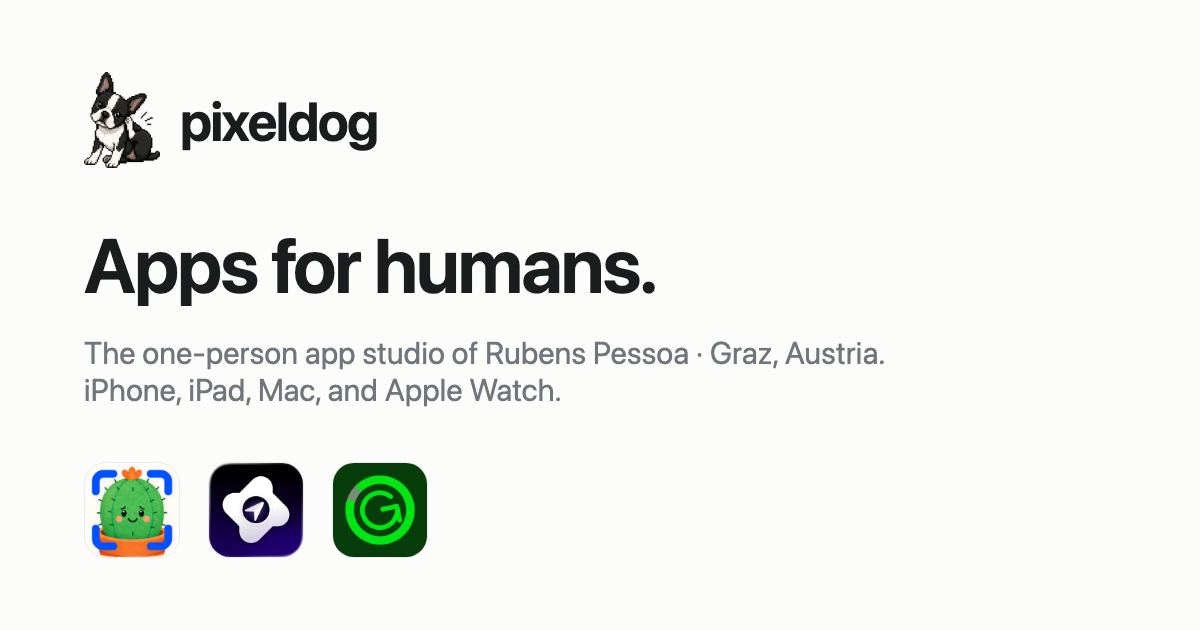
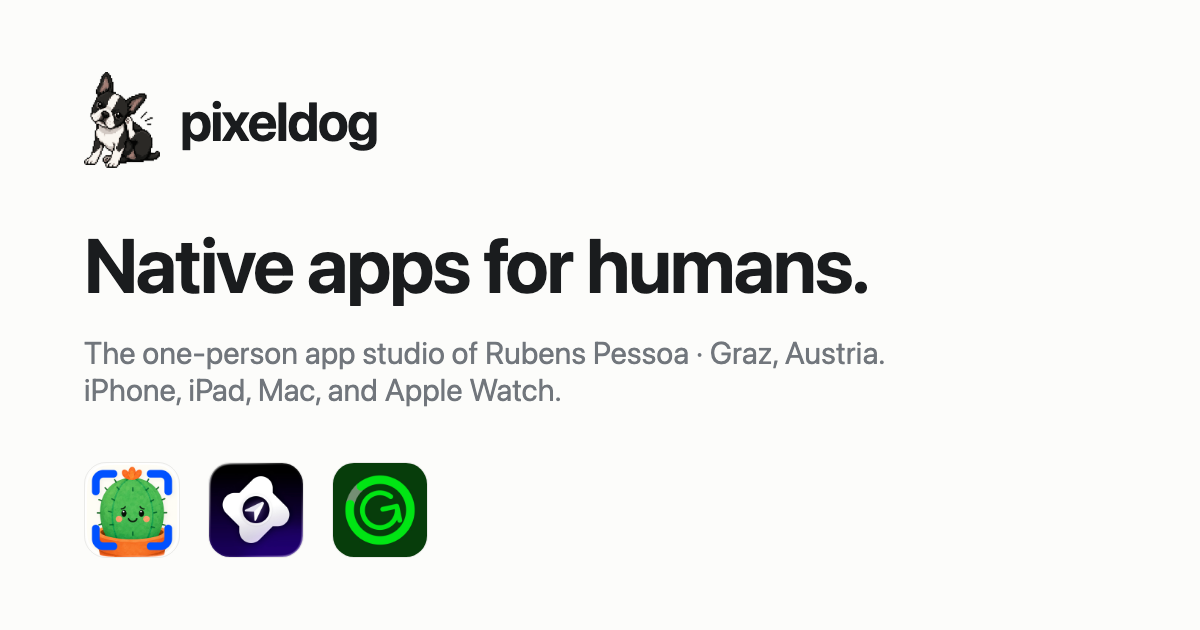
Move the dog to the footer, wordmark the header
The header becomes text only: "The pixeldog company", with the article
and the noun receding so the name still carries the lockup at a glance.
That frees the dog to be the footer's mark at 4.5rem, where it reads as
a drawing rather than a smudge.

Hero becomes "Native apps for humans." The lede drops its own "native"
so the word lands once.

Changed region(s): [[0.0617, 0.3619, 0.74, 0.4825]]

diff --git a/src/i18n/ui.ts b/src/i18n/ui.ts
@@ -45,9 +45,9 @@ export const ui = {
       description:
         'Pixeldog is the app studio of Rubens Pessoa. Native apps for iPhone, iPad, and Mac: Save My Cactus, Hustlrr, and Giorni.',
       ogDescription: 'Native apps for Apple devices from Pixeldog, the one-person studio of Rubens Pessoa.',
-      heroTitle: 'Apps for humans.',
+      heroTitle: 'Native apps for humans.',
       heroLede:
-        'Pixeldog is the one-person app studio of Rubens Pessoa in Graz, Austria. Native apps for iPhone, iPad, Mac, and Apple Watch, and the person who built them also answers the support email.',
+        'Pixeldog is the one-person app studio of Rubens Pessoa in Graz, Austria. Apps for iPhone, iPad, Mac, and Apple Watch, and the person who built them also answers the support email.',
       appsLabel: 'Apps by Pixeldog',
       comingSoon: 'Coming soon',
       learnMore: 'Learn more',
@@ -114,9 +114,9 @@ export const ui = {
       description:
         'A Pixeldog é o estúdio de apps de Rubens Pessoa. Apps nativos para iPhone, iPad e Mac: Save My Cactus, Hustlrr e Giorni.',
       ogDescription: 'Apps nativos para dispositivos Apple da Pixeldog, o estúdio de uma pessoa só de Rubens Pessoa.',
-      heroTitle: 'Apps para gente de verdade.',
+      heroTitle: 'Apps nativos para gente de verdade.',
       heroLede:
-        'A Pixeldog é o estúdio de apps de uma pessoa só: o de Rubens Pessoa, em Graz, na Áustria. Apps nativos para iPhone, iPad, Mac e Apple Watch, e quem escreveu o código é quem responde o e-mail de suporte.',
+        'A Pixeldog é o estúdio de apps de uma pessoa só: o de Rubens Pessoa, em Graz, na Áustria. Apps para iPhone, iPad, Mac e Apple Watch, e quem escreveu o código é quem responde o e-mail de suporte.',
       appsLabel: 'Apps da Pixeldog',
       comingSoon: 'Em breve',
       learnMore: 'Saiba mais',
@@ -183,9 +183,9 @@ export const ui = {
       description:
         'Pixeldog ist das App-Studio von Rubens Pessoa. Native Apps für iPhone, iPad und Mac: Save My Cactus, Hustlrr und Giorni.',
       ogDescription: 'Native Apps für Apple-Geräte von Pixeldog, dem Ein-Personen-Studio von Rubens Pessoa.',
-      heroTitle: 'Apps für Menschen.',
+      heroTitle: 'Native Apps für Menschen.',
       heroLede:
-        'Pixeldog ist das Ein-Personen-App-Studio von Rubens Pessoa in Graz. Native Apps für iPhone, iPad, Mac und Apple Watch, und wer sie gebaut hat, beantwortet auch die Support-Mails.',
+        'Pixeldog ist das Ein-Personen-App-Studio von Rubens Pessoa in Graz. Apps für iPhone, iPad, Mac und Apple Watch, und wer sie gebaut hat, beantwortet auch die Support-Mails.',
       appsLabel: 'Apps von Pixeldog',
       comingSoon: 'Demnächst',
       learnMore: 'Mehr erfahren',

diff --git a/src/styles/site.css b/src/styles/site.css
@@ -206,25 +206,28 @@ main {
 }
 
 /*
-  Logo lockup: the mark is a raster (pixel-art dog), so it cannot take
-  currentColor the way the old wordmark did. The wordmark beside it does,
-  which keeps the pairing in step with the theme.
+  Wordmark only up here. "The" and "company" recede so the name still
+  carries the lockup at a glance; all of it takes currentColor, so the
+  header stays in step with the theme.
 */
 .brand-lockup {
   display: inline-flex;
-  align-items: center;
-  gap: 0.55rem;
-}
-
-.brand-lockup__mark {
-  height: 2.6rem;
+  align-items: baseline;
+  gap: 0.32rem;
+  font-family: var(--font-display);
+  letter-spacing: -0.02em;
 }
 
 .brand-lockup__word {
-  font-family: var(--font-display);
   font-size: 1.4rem;
   font-weight: 650;
   letter-spacing: -0.03em;
+}
+
+.brand-lockup__article {
+  font-size: 1.05rem;
+  font-weight: 400;
+  color: var(--ink-muted);
 }
 
 .pixeldog-mark {
@@ -233,7 +236,7 @@ main {
 }
 
 .footer-brand__logo {
-  height: 2.5rem;
+  height: 4.5rem;
 }
 
 /*

diff --git a/src/assets/social-card.html b/src/assets/social-card.html
@@ -68,7 +68,7 @@
   </div>
 
   <div>
-    <h1>Apps for&nbsp;humans.</h1>
+    <h1>Native apps for&nbsp;humans.</h1>
     <p class="sub">The one-person app studio of Rubens Pessoa · Graz, Austria.<br>iPhone, iPad, Mac, and Apple&nbsp;Watch.</p>
   </div>
 
